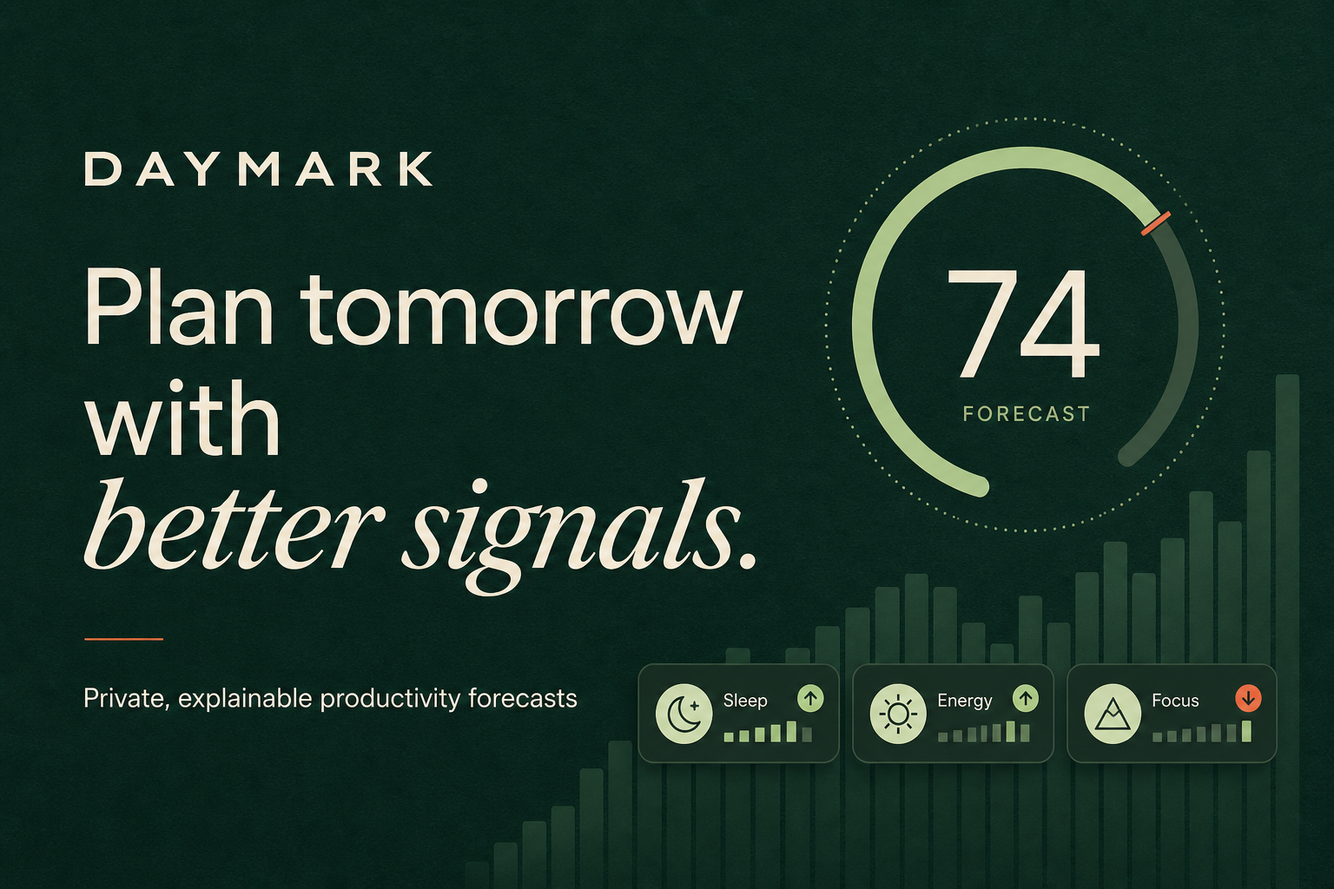
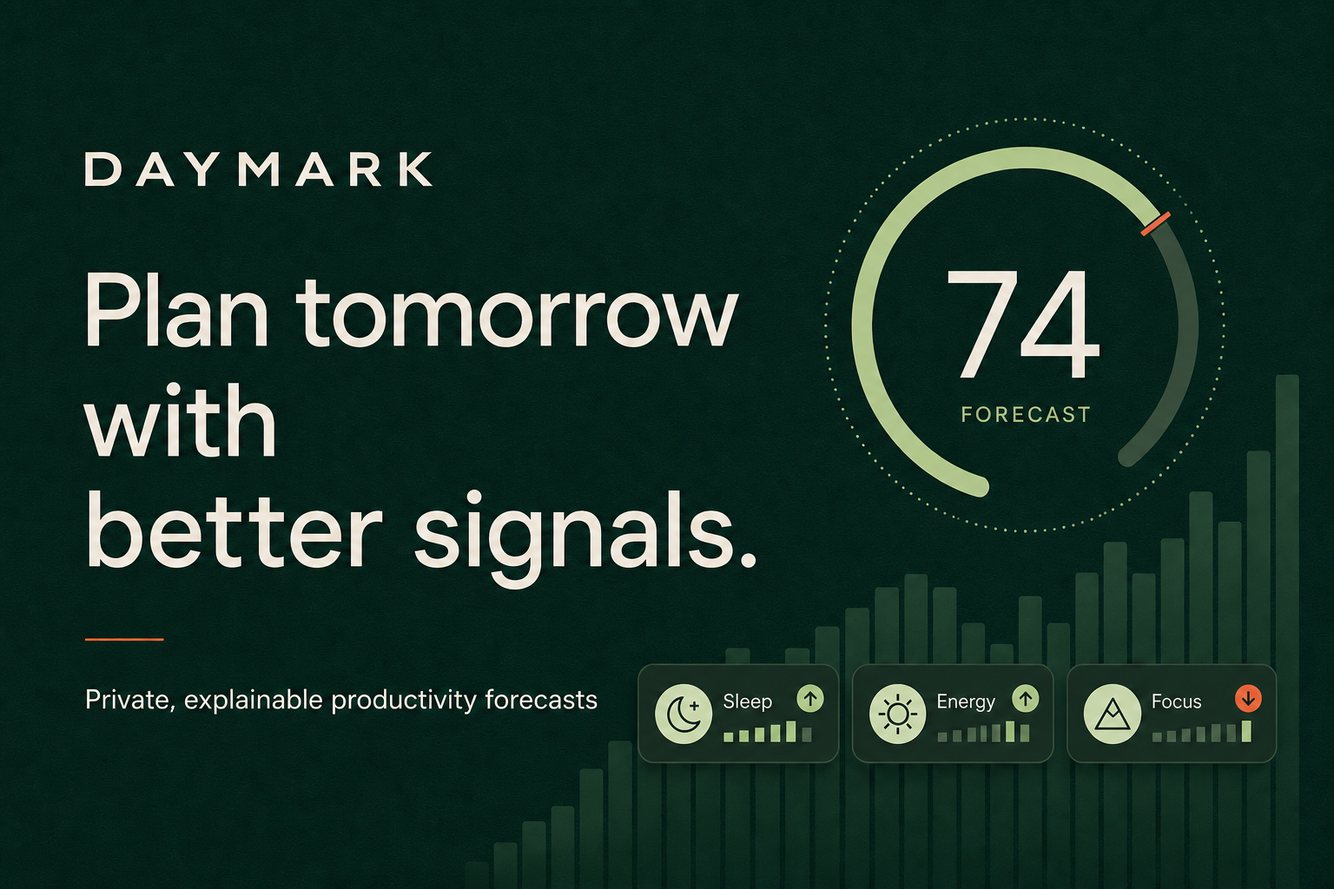
Unify Daymark layout and typography

diff --git a/app/globals.css b/app/globals.css
@@ -11,15 +11,27 @@
   --yellow: #f1c867;
   --line: rgba(24, 56, 47, .14);
   --muted: #687a74;
+  --content-width: 1320px;
+  --radius-sm: 8px;
+  --radius-md: 12px;
+  --radius-lg: 18px;
+  --space-page: clamp(20px, 4vw, 56px);
+  --shadow-soft: 0 16px 44px rgba(24, 56, 47, .08);
 }
 
 * { box-sizing: border-box; }
 html { scroll-behavior: smooth; }
-body { margin: 0; background: var(--paper); color: var(--ink); font-family: var(--font-geist-sans), Arial, sans-serif; }
+body { margin: 0; background: var(--paper); color: var(--ink); font-family: var(--font-geist-sans), Arial, sans-serif; font-synthesis: none; text-rendering: optimizeLegibility; }
 button, input, select, textarea { font: inherit; }
 button, a { -webkit-tap-highlight-color: transparent; }
 button { color: inherit; }
 a { color: inherit; text-decoration: none; }
+h1, h2, h3, h4, p { margin-top: 0; }
+h1, h2, h3 { text-wrap: balance; }
+p { text-wrap: pretty; }
+strong, b, h1, h2, h3 { font-variation-settings: "wght" var(--text-weight, 650); }
+button, a, input, select, textarea { transition: color .2s ease, background-color .2s ease, border-color .2s ease, opacity .2s ease, transform .2s ease, box-shadow .2s ease; }
+button:focus-visible, a:focus-visible, input:focus-visible, select:focus-visible, textarea:focus-visible { outline: 2px solid var(--orange); outline-offset: 3px; }
 
 .logo { display: inline-flex; align-items: center; gap: 11px; color: white; font-size: 21px; letter-spacing: -.04em; }
 .logo-dark { color: var(--ink); }
@@ -31,27 +43,27 @@ a { color: inherit; text-decoration: none; }
 
 /* Marketing site */
 .marketing { overflow: hidden; background: var(--cream); }
-.marketing-nav { width: min(1500px, calc(100% - 72px)); height: 82px; margin: auto; display: grid; grid-template-columns: 1fr auto 1fr; align-items: center; border-bottom: 1px solid rgba(255,255,255,.2); color: white; position: relative; z-index: 5; }
+.marketing-nav { width: min(var(--content-width), calc(100% - (var(--space-page) * 2))); height: 82px; margin: auto; display: grid; grid-template-columns: 1fr auto 1fr; align-items: center; border-bottom: 1px solid rgba(255,255,255,.2); color: white; position: relative; z-index: 5; }
 .marketing-nav nav { display: flex; gap: 38px; font-size: 13px; }
 .marketing-nav nav a { opacity: .74; transition: opacity .2s; }
 .marketing-nav nav a:hover { opacity: 1; }
 .nav-actions { justify-self: end; display: flex; align-items: center; gap: 24px; }
 .link-button { border: 0; background: none; color: white; cursor: pointer; }
-.small-cta { border: 0; padding: 12px 17px; background: var(--mint); color: var(--ink); font-weight: 750; cursor: pointer; }
+.small-cta { border: 0; border-radius: var(--radius-sm); padding: 12px 17px; background: var(--mint); color: var(--ink); font-weight: 750; cursor: pointer; }
 .small-cta span, .primary-cta span { margin-left: 20px; }
-.hero-shell { min-height: 745px; margin-top: -82px; padding: 160px max(36px, calc((100% - 1428px) / 2)) 72px; color: white; background: radial-gradient(circle at 75% 55%, rgba(108,153,131,.25), transparent 36%), var(--ink); display: grid; grid-template-columns: .95fr 1.05fr; align-items: center; gap: 7vw; }
+.hero-shell { min-height: 745px; margin-top: -82px; padding: 160px max(var(--space-page), calc((100% - var(--content-width)) / 2)) 82px; color: white; background: radial-gradient(circle at 75% 55%, rgba(108,153,131,.25), transparent 36%), var(--ink); display: grid; grid-template-columns: .95fr 1.05fr; align-items: center; gap: clamp(56px, 7vw, 110px); }
 .eyebrow { display: flex; align-items: center; gap: 10px; color: var(--mint); font: 700 11px/1 var(--font-geist-mono), monospace; letter-spacing: .14em; }
-.hero-copy h1 { margin: 28px 0 30px; max-width: 740px; font-size: clamp(60px, 6.6vw, 106px); line-height: .87; letter-spacing: -.07em; font-weight: 630; }
-.hero-copy h1 em, .how-section h2 em, .final-cta h2 em { color: var(--mint); font-family: Georgia, serif; font-weight: 400; }
+.hero-copy h1 { margin: 28px 0 30px; max-width: 740px; font-size: clamp(60px, 6.2vw, 96px); line-height: .92; letter-spacing: -.065em; font-weight: 620; }
+.hero-copy h1 em, .how-section h2 em, .final-cta h2 em { color: var(--mint); font-family: inherit; font-weight: 430; font-style: normal; letter-spacing: -.07em; }
 .hero-lead { max-width: 620px; margin: 0; color: rgba(255,255,255,.68); font-size: 18px; line-height: 1.65; }
 .hero-actions { display: flex; align-items: center; gap: 30px; margin-top: 40px; }
-.primary-cta { padding: 18px 20px; background: var(--mint); border: 0; color: var(--ink); font-size: 13px; font-weight: 800; cursor: pointer; box-shadow: 6px 6px 0 var(--orange); transition: transform .2s, box-shadow .2s; }
+.primary-cta { padding: 18px 20px; background: var(--mint); border: 0; border-radius: var(--radius-sm); color: var(--ink); font-size: 13px; font-weight: 750; cursor: pointer; box-shadow: 6px 6px 0 var(--orange); transition: transform .2s, box-shadow .2s; }
 .primary-cta:hover { transform: translate(3px,3px); box-shadow: 3px 3px 0 var(--orange); }
 .demo-link { display: flex; align-items: center; gap: 12px; border: 0; background: none; color: white; font-weight: 650; cursor: pointer; }
 .play { display: grid; place-content: center; width: 32px; height: 32px; padding-left: 2px; border: 1px solid rgba(255,255,255,.35); border-radius: 50%; font-size: 9px; }
 .trust-line { display: flex; gap: 22px; margin-top: 34px; color: rgba(255,255,255,.5); font-size: 11px; }
 .hero-product { position: relative; width: 100%; max-width: 690px; justify-self: end; }
-.product-window { overflow: hidden; background: #f8f8f4; color: var(--ink); box-shadow: 0 32px 80px rgba(0,0,0,.34); transform: perspective(1200px) rotateY(-3deg) rotateZ(1deg); }
+.product-window { overflow: hidden; border: 1px solid rgba(255,255,255,.12); border-radius: var(--radius-lg); background: #f8f8f4; color: var(--ink); box-shadow: 0 32px 80px rgba(0,0,0,.34); transform: perspective(1200px) rotateY(-2deg) rotateZ(.5deg); }
 .window-top { height: 54px; padding: 0 20px; display: flex; align-items: center; justify-content: space-between; border-bottom: 1px solid var(--line); }
 .window-top .logo { font-size: 14px; gap: 7px; }
 .window-top .logo-mark { transform: scale(.65) skew(-12deg); margin-right: -4px; }
@@ -87,59 +99,59 @@ a { color: inherit; text-decoration: none; }
 .signal-icon.down { color: #a4513a; background: #f5dfd4; }
 .signal-row p, .signal-row small { margin: 0; color: var(--muted); font: 650 7px/1.3 var(--font-geist-mono), monospace; letter-spacing: .07em; }
 .signal-row strong { display: block; margin: 5px 0; font-size: 10px; }
-.recommendation { margin-top: 20px; padding: 14px 17px; background: var(--sage); display: flex; align-items: center; gap: 13px; }
+.recommendation { margin-top: 20px; padding: 14px 17px; border-radius: var(--radius-sm); background: var(--sage); display: flex; align-items: center; gap: 13px; }
 .recommendation > span { color: var(--orange); }
 .recommendation div { display: grid; gap: 3px; }
 .recommendation small { font: 700 7px var(--font-geist-mono), monospace; letter-spacing: .08em; color: var(--muted); }
 .recommendation strong { font-size: 10px; }
 .recommendation > b { margin-left: auto; }
-.float-card { position: absolute; z-index: 3; display: grid; padding: 14px 17px; background: var(--mint); color: var(--ink); border: 1px solid var(--ink); box-shadow: 5px 5px 0 var(--ink); }
+.float-card { position: absolute; z-index: 3; display: grid; padding: 14px 17px; background: var(--mint); color: var(--ink); border: 1px solid var(--ink); border-radius: var(--radius-sm); box-shadow: 5px 5px 0 var(--ink); }
 .float-card span { font: 700 7px var(--font-geist-mono), monospace; letter-spacing: .12em; }
 .float-card strong { margin: 6px 0 4px; font-size: 14px; }
 .float-card small { font-size: 8px; color: var(--muted); }
 .float-one { left: -42px; bottom: 55px; transform: rotate(-3deg); }
 .float-two { right: -20px; top: 45px; background: white; transform: rotate(3deg); }
-.metrics-band { min-height: 145px; padding: 28px max(36px, calc((100% - 1428px) / 2)); background: var(--mint); display: grid; grid-template-columns: repeat(3, 1fr) 1.25fr; align-items: center; }
+.metrics-band { min-height: 145px; padding: 28px max(var(--space-page), calc((100% - var(--content-width)) / 2)); background: var(--mint); display: grid; grid-template-columns: repeat(3, 1fr) 1.25fr; align-items: center; }
 .metrics-band > * { min-height: 70px; padding: 8px 34px; border-right: 1px solid rgba(24,56,47,.22); }
 .metrics-band div { display: grid; gap: 5px; }
 .metrics-band strong { font-size: 30px; letter-spacing: -.04em; }
 .metrics-band span { color: #587068; font: 700 9px var(--font-geist-mono), monospace; letter-spacing: .09em; text-transform: uppercase; }
 .metrics-band p { border: 0; margin: 0; font-size: 20px; line-height: 1.25; }
-.metrics-band p em { font-family: Georgia, serif; }
-.how-section { padding: 120px max(36px, calc((100% - 1320px) / 2)); }
+.metrics-band p em { font-family: inherit; font-style: normal; font-weight: 620; }
+.how-section { padding: 120px max(var(--space-page), calc((100% - var(--content-width)) / 2)); }
 .section-intro { display: grid; grid-template-columns: .7fr 1.5fr 1fr; gap: 50px; align-items: end; }
 .section-number { font: 750 9px var(--font-geist-mono), monospace; letter-spacing: .13em; color: var(--orange); }
-.section-intro h2 { margin: 0; font-size: clamp(44px, 5vw, 72px); line-height: .98; letter-spacing: -.055em; }
+.section-intro h2 { margin: 0; font-size: clamp(44px, 5vw, 72px); line-height: 1; letter-spacing: -.055em; font-weight: 560; }
 .section-intro h2 em { color: var(--ink); }
 .section-intro p { margin: 0; color: var(--muted); line-height: 1.65; }
-.steps-grid { display: grid; grid-template-columns: repeat(3,1fr); margin-top: 72px; border: 1px solid var(--line); }
+.steps-grid { display: grid; grid-template-columns: repeat(3,1fr); margin-top: 72px; overflow: hidden; border: 1px solid var(--line); border-radius: var(--radius-md); box-shadow: var(--shadow-soft); }
 .steps-grid article { min-height: 335px; padding: 26px; border-right: 1px solid var(--line); }
 .steps-grid article:last-child { border: 0; }
 .steps-grid article > span { color: var(--orange); font: 700 10px var(--font-geist-mono), monospace; }
 .step-symbol { display: grid; place-content: center; width: 58px; height: 58px; margin: 45px 0 32px; background: var(--sage); font-size: 24px; }
 .steps-grid h3 { margin: 0 0 12px; font-size: 24px; }
 .steps-grid p { max-width: 300px; margin: 0; color: var(--muted); font-size: 14px; line-height: 1.6; }
-.science-section { padding: 110px max(36px, calc((100% - 1320px) / 2)); display: grid; grid-template-columns: 1fr 1fr; gap: 12vw; background: var(--ink); color: white; }
+.science-section { padding: 110px max(var(--space-page), calc((100% - var(--content-width)) / 2)); display: grid; grid-template-columns: 1fr 1fr; gap: clamp(60px, 10vw, 150px); background: var(--ink); color: white; }
 .section-number.light { color: var(--mint); }
-.science-section h2 { margin: 28px 0 0; font-size: clamp(48px, 5vw, 76px); line-height: .95; letter-spacing: -.055em; }
+.science-section h2 { margin: 28px 0 0; font-size: clamp(48px, 5vw, 76px); line-height: 1; letter-spacing: -.055em; font-weight: 560; }
 .science-copy > p { margin: 0 0 42px; color: rgba(255,255,255,.65); font-size: 19px; line-height: 1.6; }
 .science-copy > p strong { color: white; }
 .science-copy ul { margin: 0; padding: 0; list-style: none; }
 .science-copy li { padding: 18px 0; border-top: 1px solid rgba(255,255,255,.17); font-size: 14px; }
 .science-copy li span { display: inline-block; width: 50px; color: var(--mint); font: 700 9px var(--font-geist-mono), monospace; }
-.privacy-section { padding: 110px max(36px, calc((100% - 1320px) / 2)); background: #e8eee3; }
-.privacy-card { position: relative; padding: 70px; background: var(--paper); text-align: center; border: 1px solid var(--line); }
+.privacy-section { padding: 110px max(var(--space-page), calc((100% - var(--content-width)) / 2)); background: #e8eee3; }
+.privacy-card { position: relative; padding: 70px; background: var(--paper); text-align: center; border: 1px solid var(--line); border-radius: var(--radius-lg); box-shadow: var(--shadow-soft); }
 .privacy-icon { width: 56px; height: 56px; display: grid; place-content: center; margin: 0 auto 24px; border: 1px solid var(--ink); border-radius: 50%; font-size: 25px; }
-.privacy-card h2 { margin: 25px auto; font-size: clamp(45px,5vw,70px); line-height: 1; letter-spacing: -.055em; }
+.privacy-card h2 { margin: 25px auto; font-size: clamp(45px,5vw,70px); line-height: 1; letter-spacing: -.055em; font-weight: 560; }
 .privacy-card > p { max-width: 640px; margin: 0 auto 38px; color: var(--muted); line-height: 1.6; }
 .privacy-points { display: flex; justify-content: center; flex-wrap: wrap; gap: 10px; }
 .privacy-points span { padding: 10px 14px; background: var(--sage); font-size: 11px; font-weight: 700; }
 .final-cta { padding: 120px 30px; background: var(--orange); text-align: center; }
 .final-cta > p { font: 750 9px var(--font-geist-mono), monospace; letter-spacing: .15em; }
-.final-cta h2 { margin: 24px 0 42px; font-size: clamp(55px,7vw,105px); line-height: .9; letter-spacing: -.065em; }
+.final-cta h2 { margin: 24px 0 42px; font-size: clamp(55px,7vw,100px); line-height: .94; letter-spacing: -.065em; font-weight: 560; }
 .final-cta h2 em { color: var(--ink); }
 .light-cta { background: var(--paper); }
-.marketing-footer { min-height: 92px; padding: 0 max(36px, calc((100% - 1428px) / 2)); display: grid; grid-template-columns: 1fr auto 1fr; align-items: center; background: var(--ink); color: white; font-size: 10px; }
+.marketing-footer { min-height: 92px; padding: 0 max(var(--space-page), calc((100% - var(--content-width)) / 2)); display: grid; grid-template-columns: 1fr auto 1fr; align-items: center; background: var(--ink); color: white; font-size: 10px; }
 .marketing-footer > div { justify-self: end; display: flex; gap: 25px; }
 
 /* App shell */
@@ -147,10 +159,10 @@ a { color: inherit; text-decoration: none; }
 .sidebar { position: sticky; top: 0; height: 100vh; padding: 30px 22px 22px; background: var(--ink); color: white; display: flex; flex-direction: column; }
 .sidebar > .logo { margin: 0 12px 54px; }
 .sidebar nav { display: grid; gap: 5px; }
-.sidebar nav button { width: 100%; padding: 12px 14px; border: 0; background: transparent; color: rgba(255,255,255,.58); display: flex; gap: 13px; align-items: center; border-radius: 4px; text-align: left; font-size: 12px; cursor: pointer; }
+.sidebar nav button { width: 100%; padding: 12px 14px; border: 0; background: transparent; color: rgba(255,255,255,.65); display: flex; gap: 13px; align-items: center; border-radius: var(--radius-sm); text-align: left; font-size: 12px; cursor: pointer; }
 .sidebar nav button span { width: 20px; font-size: 16px; text-align: center; }
 .sidebar nav button.active, .sidebar nav button:hover { color: white; background: rgba(255,255,255,.1); }
-.baseline-box { margin-top: auto; padding: 15px; background: rgba(255,255,255,.06); border: 1px solid rgba(255,255,255,.1); display: grid; gap: 7px; }
+.baseline-box { margin-top: auto; padding: 15px; background: rgba(255,255,255,.06); border: 1px solid rgba(255,255,255,.1); border-radius: var(--radius-sm); display: grid; gap: 7px; }
 .baseline-box > span { color: var(--mint); font: 700 8px var(--font-geist-mono), monospace; letter-spacing: .12em; }
 .baseline-box strong { font-size: 11px; }
 .baseline-box > div { height: 3px; background: rgba(255,255,255,.12); }
@@ -162,18 +174,19 @@ a { color: inherit; text-decoration: none; }
 .profile-block strong { font-size: 10px; }
 .profile-block small { color: rgba(255,255,255,.45); font-size: 8px; }
 .profile-block em { margin-left: auto; }
-.app-main { min-width: 0; padding: 0 42px 32px; }
+.app-main { width: 100%; max-width: 1500px; min-width: 0; margin: 0 auto; padding: 0 clamp(20px, 3vw, 46px) 32px; }
 .app-header { min-height: 116px; display: flex; align-items: center; justify-content: space-between; gap: 30px; border-bottom: 1px solid var(--line); }
 .app-header p { margin: 0 0 8px; color: var(--muted); font: 700 8px var(--font-geist-mono), monospace; letter-spacing: .12em; }
 .app-header h1 { margin: 0; font-size: 29px; letter-spacing: -.045em; }
 .header-actions { display: flex; align-items: center; gap: 8px; }
 .icon-button { position: relative; width: 38px; height: 38px; border: 1px solid var(--line); background: var(--paper); cursor: pointer; }
 .icon-button i { position: absolute; top: 8px; right: 8px; width: 5px; height: 5px; border-radius: 50%; background: var(--orange); }
-.outline-button, .dark-button { min-height: 38px; padding: 0 15px; border: 1px solid var(--line); background: var(--paper); font-size: 10px; font-weight: 750; cursor: pointer; }
+.outline-button, .dark-button { min-height: 38px; padding: 0 15px; border: 1px solid var(--line); border-radius: var(--radius-sm); background: var(--paper); font-size: 10px; font-weight: 750; cursor: pointer; }
 .dark-button { border-color: var(--ink); background: var(--ink); color: white; }
 .dark-button span { margin-left: 18px; }
 .dashboard-grid { padding-top: 28px; display: grid; grid-template-columns: 1.3fr .7fr; gap: 15px; }
-.dashboard-grid > section, .page-card, .insight-stats article, .week-grid article, .report-metrics article { background: var(--paper); border: 1px solid var(--line); }
+.dashboard-grid > section, .page-card, .insight-stats article, .week-grid article, .report-metrics article { background: var(--paper); border: 1px solid var(--line); border-radius: var(--radius-md); }
+.dashboard-grid > section, .page-card, .insight-stats article, .week-grid article, .report-metrics article, .settings-section { box-shadow: 0 7px 24px rgba(24,56,47,.025); }
 .outlook-card { grid-column: 1; padding: 22px 24px; }
 .checkin-card { grid-column: 2; padding: 22px; }
 .factors-card { grid-column: 1; padding: 22px 24px; }
@@ -185,8 +198,8 @@ a { color: inherit; text-decoration: none; }
 .card-label button { padding: 0; border: 0; background: none; font: inherit; color: var(--muted); cursor: pointer; }
 .outlook-main { display: grid; grid-template-columns: 1fr auto; align-items: center; gap: 30px; padding: 24px 10px 24px 0; }
 .outlook-date { color: var(--muted); font: 700 8px var(--font-geist-mono), monospace; letter-spacing: .1em; }
-.outlook-main h2 { margin: 9px 0 10px; font-size: clamp(32px,3.2vw,49px); line-height: .98; letter-spacing: -.055em; }
-.outlook-main h2 em { font-family: Georgia, serif; font-weight: 400; color: var(--orange); }
+.outlook-main h2 { margin: 9px 0 10px; font-size: clamp(32px,3.2vw,49px); line-height: 1; letter-spacing: -.055em; font-weight: 560; }
+.outlook-main h2 em { font-family: inherit; font-weight: 430; font-style: normal; color: var(--orange); }
 .outlook-main p { max-width: 550px; margin: 0; color: var(--muted); font-size: 12px; line-height: 1.55; }
 .large-score-ring { flex: 0 0 auto; width: 134px; height: 134px; }
 .large-score-ring::before { inset: 10px; }
@@ -260,14 +273,16 @@ a { color: inherit; text-decoration: none; }
 .page-card { padding: 26px; }
 .forecast-hero { margin-top: 28px; padding: 40px; min-height: 240px; display: flex; align-items: center; justify-content: space-between; background: var(--ink); color: white; }
 .forecast-hero h2 { margin: 20px 0 14px; font-size: 42px; line-height: .98; letter-spacing: -.055em; }
-.forecast-hero h2 em { color: var(--mint); font-family: Georgia,serif; font-weight: 400; }
+.forecast-hero h2 em { color: var(--mint); font-family: inherit; font-style: normal; font-weight: 430; }
 .forecast-hero p { max-width: 610px; margin: 0; color: rgba(255,255,255,.58); font-size: 12px; line-height: 1.6; }
 .forecast-average { display: grid; min-width: 160px; padding-left: 35px; border-left: 1px solid rgba(255,255,255,.2); text-align: center; }
 .forecast-average small { color: var(--mint); font: 700 8px var(--font-geist-mono),monospace; letter-spacing: .1em; }
 .forecast-average strong { font-size: 70px; line-height: 1.1; }
 .forecast-average span { color: rgba(255,255,255,.55); font-size: 8px; }
 .week-grid { display: grid; grid-template-columns: repeat(7,1fr); margin-top: 15px; }
-.week-grid article { position: relative; min-height: 220px; padding: 18px 14px; border-right: 0; display: flex; flex-direction: column; }
+.week-grid article { position: relative; min-height: 220px; padding: 18px 14px; border-radius: 0; border-right: 0; display: flex; flex-direction: column; }
+.week-grid article:first-child { border-radius: var(--radius-md) 0 0 var(--radius-md); }
+.week-grid article:last-child { border-radius: 0 var(--radius-md) var(--radius-md) 0; }
 .week-grid article:last-child { border-right: 1px solid var(--line); }
 .week-grid article.best-day { background: #e4eedb; }
 .week-grid article > div:first-child { display: flex; justify-content: space-between; color: var(--muted); font-size: 9px; }
@@ -324,11 +339,11 @@ a { color: inherit; text-decoration: none; }
 .average-line { position: absolute; z-index: 2; left: 0; right: 0; top: 35%; border-top: 1px dashed var(--orange); }
 .average-line span { position: absolute; right: 0; top: -14px; color: var(--orange); font-size: 7px; }
 .chart-x { position: absolute; left: 0; right: 0; bottom: -17px; display: flex; justify-content: space-between; color: var(--muted); font-size: 7px; }
-.report-cover { min-height: 270px; margin-top: 28px; padding: 38px 46px; background: var(--ink); color: white; display: grid; grid-template-columns: auto 1fr auto; align-items: center; gap: 45px; }
+.report-cover { min-height: 270px; margin-top: 28px; padding: 38px 46px; border-radius: var(--radius-md); background: var(--ink); color: white; display: grid; grid-template-columns: auto 1fr auto; align-items: center; gap: 45px; }
 .report-cover > span { align-self: start; color: var(--mint); font: 700 9px var(--font-geist-mono),monospace; writing-mode: vertical-rl; }
 .report-cover p { margin: 0; color: var(--mint); font: 700 8px var(--font-geist-mono),monospace; letter-spacing: .12em; }
 .report-cover h2 { margin: 18px 0 12px; font-size: 46px; line-height: .95; letter-spacing: -.055em; }
-.report-cover h2 em { color: var(--mint); font-family: Georgia,serif; font-weight: 400; }
+.report-cover h2 em { color: var(--mint); font-family: inherit; font-style: normal; font-weight: 430; }
 .report-cover small { color: rgba(255,255,255,.5); font-size: 10px; }
 .report-score { display: grid; text-align: center; padding-left: 45px; border-left: 1px solid rgba(255,255,255,.2); }
 .report-score strong { font-size: 72px; line-height: 1; }
@@ -362,7 +377,7 @@ a { color: inherit; text-decoration: none; }
 .settings-layout > nav button { padding: 11px 13px; border: 0; background: transparent; text-align: left; color: var(--muted); font-size: 10px; cursor: pointer; }
 .settings-layout > nav button.active { background: var(--ink); color: white; }
 .settings-content { display: grid; gap: 15px; }
-.settings-section { padding: 28px; background: var(--paper); border: 1px solid var(--line); }
+.settings-section { padding: 28px; background: var(--paper); border: 1px solid var(--line); border-radius: var(--radius-md); }
 .settings-section > div:first-child h2 { margin: 0 0 7px; font-size: 20px; }
 .settings-section > div:first-child p { max-width: 650px; margin: 0 0 24px; color: var(--muted); font-size: 10px; line-height: 1.6; }
 .integration-row { display: flex; align-items: center; gap: 14px; padding: 15px; background: #f0f2ec; }
@@ -391,7 +406,7 @@ a { color: inherit; text-decoration: none; }
 
 /* Modals */
 .modal-backdrop { position: fixed; z-index: 100; inset: 0; padding: 30px; display: grid; place-content: center; background: rgba(11,29,24,.72); backdrop-filter: blur(5px); }
-.checkin-modal { position: relative; width: min(540px, calc(100vw - 40px)); max-height: calc(100vh - 40px); overflow-y: auto; padding: 42px; background: var(--paper); box-shadow: 0 25px 80px rgba(0,0,0,.3); }
+.checkin-modal { position: relative; width: min(540px, calc(100vw - 40px)); max-height: calc(100vh - 40px); overflow-y: auto; padding: 42px; border-radius: var(--radius-lg); background: var(--paper); box-shadow: 0 25px 80px rgba(0,0,0,.3); }
 .modal-close { position: absolute; top: 16px; right: 18px; width: 31px; height: 31px; border: 1px solid var(--line); background: transparent; font-size: 20px; cursor: pointer; }
 .modal-kicker { color: var(--orange); font: 750 8px var(--font-geist-mono),monospace; letter-spacing: .12em; }
 .modal-progress { height: 3px; margin: 16px 0 26px; background: #e4e7e0; }
@@ -399,7 +414,7 @@ a { color: inherit; text-decoration: none; }
 .checkin-modal h2 { margin: 19px 0 12px; font-size: 35px; line-height: 1; letter-spacing: -.05em; }
 .checkin-modal > p { margin: 0 0 25px; color: var(--muted); font-size: 11px; line-height: 1.55; }
 .goal-options { display: grid; gap: 8px; }
-.goal-options label { position: relative; padding: 15px; display: grid; grid-template-columns: auto 1fr; gap: 2px 12px; border: 1px solid var(--line); cursor: pointer; }
+.goal-options label { position: relative; padding: 15px; display: grid; grid-template-columns: auto 1fr; gap: 2px 12px; border: 1px solid var(--line); border-radius: var(--radius-sm); cursor: pointer; }
 .goal-options input { position: absolute; opacity: 0; }
 .goal-options label:has(input:checked) { border-color: var(--ink); background: var(--sage); }
 .goal-options span { grid-row: span 2; display: grid; place-content: center; width: 32px; height: 32px; background: white; color: var(--orange); }
@@ -407,7 +422,7 @@ a { color: inherit; text-decoration: none; }
 .goal-options small { color: var(--muted); font-size: 8px; }
 .field-row { display: grid; grid-template-columns: 1fr 1fr; gap: 12px; }
 .field-row label, .full-field { color: var(--muted); font: 700 7px var(--font-geist-mono),monospace; letter-spacing: .09em; }
-.field-row input, .field-row select, .full-field select, .full-field textarea { width: 100%; margin-top: 8px; padding: 12px; border: 1px solid var(--line); background: white; color: var(--ink); outline: none; font: 500 11px var(--font-geist-sans),sans-serif; }
+.field-row input, .field-row select, .full-field select, .full-field textarea { width: 100%; margin-top: 8px; padding: 12px; border: 1px solid var(--line); border-radius: var(--radius-sm); background: white; color: var(--ink); outline: none; font: 500 11px var(--font-geist-sans),sans-serif; }
 .full-field { display: block; margin-top: 14px; }
 .full-field textarea { min-height: 90px; resize: vertical; }
 .consent-list { display: grid; gap: 3px; }
@@ -419,7 +434,14 @@ a { color: inherit; text-decoration: none; }
 .range-field { display: block; margin: 20px 0; }
 .range-field > span { display: flex; justify-content: space-between; font-size: 10px; }
 .range-field input { width: 100%; margin-top: 11px; accent-color: var(--ink); }
-.modal-submit { width: 100%; margin-top: 24px; padding: 14px 17px; display: flex; justify-content: space-between; border: 0; background: var(--ink); color: white; font-size: 10px; font-weight: 750; cursor: pointer; }
+.modal-submit { width: 100%; margin-top: 24px; padding: 14px 17px; display: flex; justify-content: space-between; border: 0; border-radius: var(--radius-sm); background: var(--ink); color: white; font-size: 10px; font-weight: 750; cursor: pointer; }
+
+/* One typographic system: Geist Sans for reading, Geist Mono for compact data. */
+.score-ring strong, .large-score-ring strong, .forecast-average strong, .day-score, .insight-stats strong, .report-score strong, .report-metrics strong, .trend-summary strong, .calendar-stats strong { font-variant-numeric: tabular-nums; }
+.eyebrow, .section-number, .card-label, .modal-kicker, .outlook-date, .app-header p { line-height: 1.4; }
+.marketing-nav a, .link-button, .small-cta, .primary-cta, .demo-link, .sidebar button, .header-actions button { letter-spacing: -.01em; }
+.steps-grid article, .privacy-card, .dashboard-grid > section, .page-card, .settings-section { transition: transform .22s ease, box-shadow .22s ease, border-color .22s ease; }
+.steps-grid article:hover, .dashboard-grid > section:hover, .page-card:hover { border-color: rgba(24,56,47,.23); box-shadow: 0 14px 34px rgba(24,56,47,.07); transform: translateY(-2px); }
 
 @media (max-width: 1100px) {
   .hero-shell { grid-template-columns: 1fr; padding-top: 150px; }
